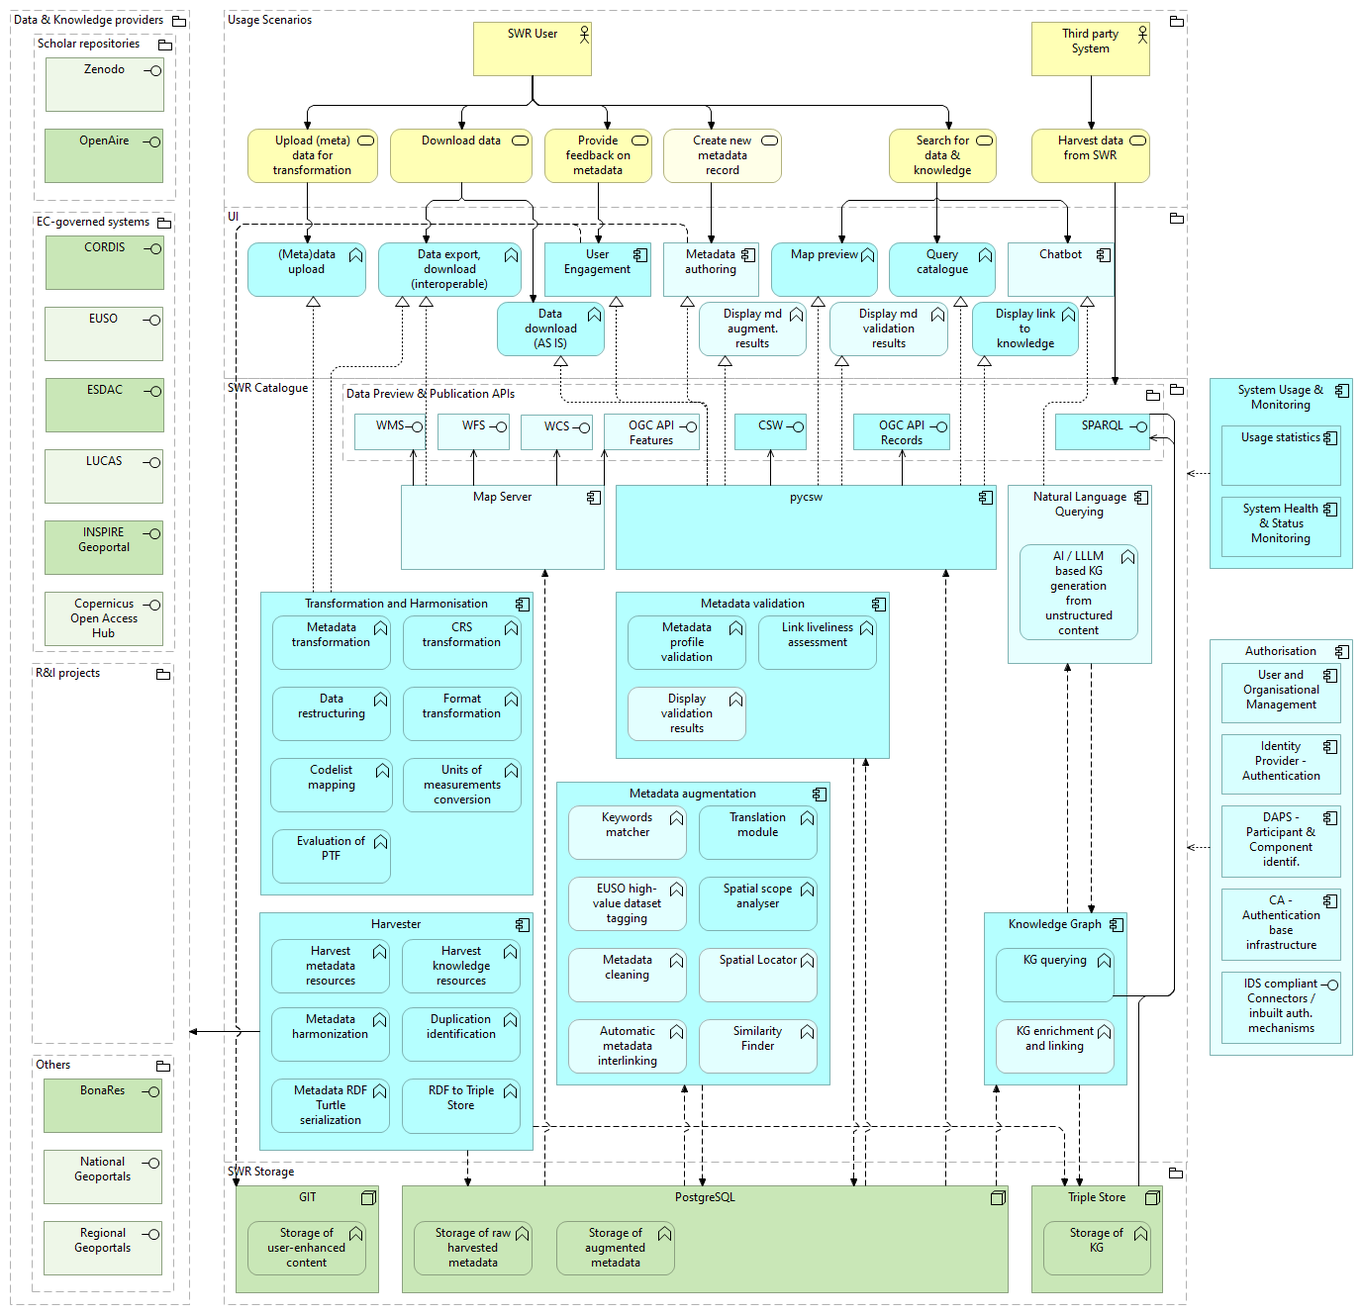
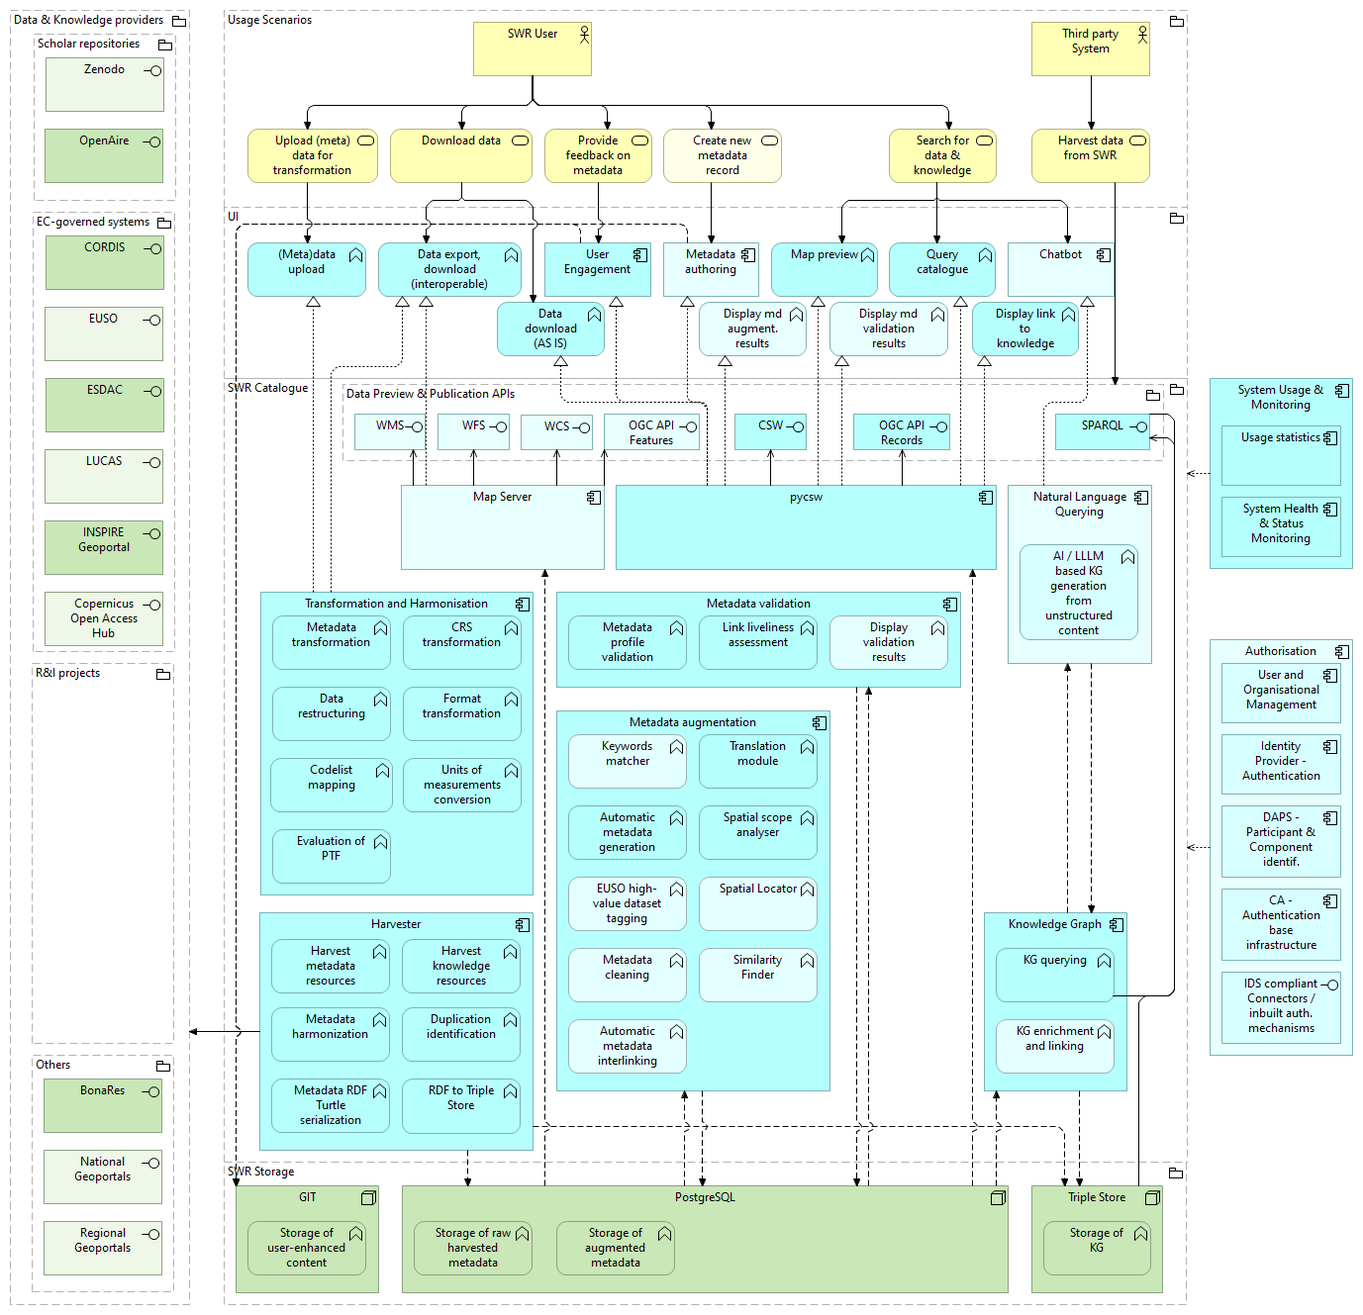
add metadata generation function

Changed region(s): [[0.406, 0.4319, 0.7182, 0.7404], [0.406, 0.7713, 0.6245, 0.833], [0.7182, 0.8021, 0.8119, 0.833]]

diff --git a/docs/id-85903050004a40d8964c6edc97e82d57/views/id-e3ae52bba4fb42dfa0b3900e7d37bdab.html b/docs/id-85903050004a40d8964c6edc97e82d57/views/id-e3ae52bba4fb42dfa0b3900e7d37bdab.html
@@ -92,25 +92,26 @@
 				  						<area shape="rect" coords="1006,1030,1126,1085" href="../elements/id-5922c005d25c4969baae7a6cd33ebb69.html"  target="element">
 				  						<area shape="rect" coords="1006,958,1126,1013" href="../elements/id-ad899cd3eb304d508fe490516af3d530.html"  target="element">
 
-				  				<area shape="rect" coords="994,922,1139,1097" href="../elements/id-78b338469cf443b3a3295477304c279f.html"  target="element">
-				  						<area shape="rect" coords="706,1030,826,1085" href="../elements/id-a8bf9506711a4be5be385f38c31e083a.html"  target="element">
+				  				<area shape="rect" coords="994,922,1139,1103" href="../elements/id-78b338469cf443b3a3295477304c279f.html"  target="element">
+				  						<area shape="rect" coords="574,814,694,869" href="../elements/id-35e137767e5941f382882b1ef6c4f18d.html"  target="element">
+				  						<area shape="rect" coords="706,958,826,1013" href="../elements/id-a8bf9506711a4be5be385f38c31e083a.html"  target="element">
 				  						<area shape="rect" coords="574,1030,694,1085" href="../elements/id-fbbcfe698cb04545b2df88b75572586a.html"  target="element">
-				  						<area shape="rect" coords="706,958,826,1013" href="../elements/id-0db32aa4b92b475f8ce412000a2e4d56.html"  target="element">
-				  						<area shape="rect" coords="706,886,826,941" href="../elements/id-fac2ae4aaeb94e66b4c3e9c2313f1279.html"  target="element">
-				  						<area shape="rect" coords="706,814,826,869" href="../elements/id-ccdf29d8bcda445db4534805b002dc8e.html"  target="element">
+				  						<area shape="rect" coords="706,886,826,941" href="../elements/id-0db32aa4b92b475f8ce412000a2e4d56.html"  target="element">
+				  						<area shape="rect" coords="706,814,826,869" href="../elements/id-fac2ae4aaeb94e66b4c3e9c2313f1279.html"  target="element">
+				  						<area shape="rect" coords="706,742,826,797" href="../elements/id-ccdf29d8bcda445db4534805b002dc8e.html"  target="element">
 				  						<area shape="rect" coords="574,958,694,1013" href="../elements/id-567cdfff454343d086c13d092157cdd2.html"  target="element">
-				  						<area shape="rect" coords="574,814,694,869" href="../elements/id-4b1707ccb0fb4232b0326a1b8f46bbbd.html"  target="element">
+				  						<area shape="rect" coords="574,742,694,797" href="../elements/id-4b1707ccb0fb4232b0326a1b8f46bbbd.html"  target="element">
 				  						<area shape="rect" coords="574,886,694,941" href="../elements/id-137a92520c3f4d8896df5be7b3a287cb.html"  target="element">
 
-				  				<area shape="rect" coords="562,790,839,1097" href="../elements/id-013ebacf35cf4b9a8cc2f8c9cd38dea7.html"  target="element">
+				  				<area shape="rect" coords="562,718,839,1103" href="../elements/id-013ebacf35cf4b9a8cc2f8c9cd38dea7.html"  target="element">
 				  						<area shape="rect" coords="1030,550,1150,647" href="../elements/id-1745e1bf66b04add9ec4a2f8dda34662.html"  target="element">
 
 				  				<area shape="rect" coords="1018,490,1164,671" href="../elements/id-b99b178a48604a2d9c9d1aa3bd9ca189.html"  target="element">
-				  						<area shape="rect" coords="766,622,886,677" href="../elements/id-a5804a5b650b4939a33ed2baa55c3af7.html"  target="element">
-				  						<area shape="rect" coords="634,694,754,749" href="../elements/id-57e13832cda945deb6cf6a0b841ba5fd.html"  target="element">
-				  						<area shape="rect" coords="634,622,754,677" href="../elements/id-3e75983d6ad84e2aa14838025d3de1c1.html"  target="element">
+				  						<area shape="rect" coords="706,622,826,677" href="../elements/id-a5804a5b650b4939a33ed2baa55c3af7.html"  target="element">
+				  						<area shape="rect" coords="838,622,958,677" href="../elements/id-57e13832cda945deb6cf6a0b841ba5fd.html"  target="element">
+				  						<area shape="rect" coords="574,622,694,677" href="../elements/id-3e75983d6ad84e2aa14838025d3de1c1.html"  target="element">
 
-				  				<area shape="rect" coords="622,598,899,767" href="../elements/id-a9cf757619cf4e5b88a6f18218fcbc58.html"  target="element">
+				  				<area shape="rect" coords="562,598,971,695" href="../elements/id-a9cf757619cf4e5b88a6f18218fcbc58.html"  target="element">
 				  				<area shape="rect" coords="405,490,611,576" href="../elements/id-4e10e6e899fc499596954856f014a5f6.html"  target="element">
 				  				<area shape="rect" coords="622,490,1007,576" href="../elements/id-443536983de845b9adeeef349b706966.html"  target="element">
 				  						<area shape="rect" coords="275,838,395,893" href="../elements/id-f9581805cb3d4b808918f55af9b5a876.html"  target="element">
@@ -525,6 +526,12 @@
 															<tr>
 															    <td> <a href="../elements/id-a8bf9506711a4be5be385f38c31e083a.html" target="element"> Similarity Finder </a> </td>
 															    <td> <a href="../elements/id-a8bf9506711a4be5be385f38c31e083a.html" target="element" class="i18n-elementtype-ApplicationFunction">
+															    </a> </td>
+															</tr>
+
+															<tr>
+															    <td> <a href="../elements/id-35e137767e5941f382882b1ef6c4f18d.html" target="element"> Automatic metadata generation </a> </td>
+															    <td> <a href="../elements/id-35e137767e5941f382882b1ef6c4f18d.html" target="element" class="i18n-elementtype-ApplicationFunction">
 															    </a> </td>
 															</tr>
 
@@ -1476,6 +1483,13 @@
 																				</a> </td>
 																				<td> <a href="../elements/id-013ebacf35cf4b9a8cc2f8c9cd38dea7.html" target="element"> Metadata augmentation </a> </td>
 																				<td> <a href="../elements/id-a8bf9506711a4be5be385f38c31e083a.html" target="element"> Similarity Finder </a> </td>
+																			</tr>
+																			<tr>
+																				<td> <a href="../elements/id-14976dd06ac74f29903cc23752dce91b.html" target="element">  </a> </td>
+																				<td> <a href="../elements/id-14976dd06ac74f29903cc23752dce91b.html" target="element" class="i18n-elementtype-AssignmentRelationship">
+																				</a> </td>
+																				<td> <a href="../elements/id-013ebacf35cf4b9a8cc2f8c9cd38dea7.html" target="element"> Metadata augmentation </a> </td>
+																				<td> <a href="../elements/id-35e137767e5941f382882b1ef6c4f18d.html" target="element"> Automatic metadata generation </a> </td>
 																			</tr>
 
 													

diff --git a/docs/id-85903050004a40d8964c6edc97e82d57/elements/model.html b/docs/id-85903050004a40d8964c6edc97e82d57/elements/model.html
@@ -294,6 +294,8 @@
 										dataElements.push({id:"id-8f03e3a8472e4f77bb14b315ad81382f", type:"ApplicationComponent", specialization:decodeURL(""), name:decodeURL("Metadata+authoring"), documentation:decodeURL("")});
 									dataFoldersContent.push({folderid:"id-2c9f601c1d62497682cb27a036b43315", contentid:"id-4834d45773674d65afe4bfb6167c89a4", contenttype:"ApplicationFunction"});
 										dataElements.push({id:"id-4834d45773674d65afe4bfb6167c89a4", type:"ApplicationFunction", specialization:decodeURL(""), name:decodeURL("Metadata+RDF+Turtle+serialization"), documentation:decodeURL("")});
+									dataFoldersContent.push({folderid:"id-2c9f601c1d62497682cb27a036b43315", contentid:"id-35e137767e5941f382882b1ef6c4f18d", contenttype:"ApplicationFunction"});
+										dataElements.push({id:"id-35e137767e5941f382882b1ef6c4f18d", type:"ApplicationFunction", specialization:decodeURL(""), name:decodeURL("Automatic+metadata+generation"), documentation:decodeURL("")});
 
 								dataFoldersContent.push({folderid:"id-85903050004a40d8964c6edc97e82d57", contentid:"id-85266dd2e90a4a2695a857c734ccac21", contenttype:"Folder"});
 								dataFolders.push({id:"id-85266dd2e90a4a2695a857c734ccac21", type:"Folder", name:decodeURL("Technology+%26+Physical"), documentation:decodeURL("")});
@@ -819,6 +821,8 @@
 										dataRelationships.push({id:"id-01c683b1caf34c77b44f6a9ef3063137", type:"FlowRelationship", specialization:decodeURL(""), name:decodeURL(""), documentation:decodeURL(""), sourceid:"id-8f03e3a8472e4f77bb14b315ad81382f", targetid:"id-0c180dee91a348a1b28b32ab70f1301d"});
 									dataFoldersContent.push({folderid:"id-8419bd0e4109431da90c86e364e87b59", contentid:"id-8a92d722bbb24e3a950040cbc209118b", contenttype:"AssignmentRelationship"});
 										dataRelationships.push({id:"id-8a92d722bbb24e3a950040cbc209118b", type:"AssignmentRelationship", specialization:decodeURL(""), name:decodeURL(""), documentation:decodeURL(""), sourceid:"id-6bce807e313049e1aabf4e46d09a7aba", targetid:"id-4834d45773674d65afe4bfb6167c89a4"});
+									dataFoldersContent.push({folderid:"id-8419bd0e4109431da90c86e364e87b59", contentid:"id-14976dd06ac74f29903cc23752dce91b", contenttype:"AssignmentRelationship"});
+										dataRelationships.push({id:"id-14976dd06ac74f29903cc23752dce91b", type:"AssignmentRelationship", specialization:decodeURL(""), name:decodeURL(""), documentation:decodeURL(""), sourceid:"id-013ebacf35cf4b9a8cc2f8c9cd38dea7", targetid:"id-35e137767e5941f382882b1ef6c4f18d"});
 
 								dataFoldersContent.push({folderid:"id-85903050004a40d8964c6edc97e82d57", contentid:"id-d5c07833d04e4a8596923e0230819484", contenttype:"Folder"});
 								dataFolders.push({id:"id-d5c07833d04e4a8596923e0230819484", type:"Folder", name:decodeURL("Views"), documentation:decodeURL("")});
@@ -880,6 +884,7 @@
 																dataViewsContent.push({viewid:"id-e3ae52bba4fb42dfa0b3900e7d37bdab", contentid:"id-0db32aa4b92b475f8ce412000a2e4d56", contenttype:"ApplicationFunction"});
 																dataViewsContent.push({viewid:"id-e3ae52bba4fb42dfa0b3900e7d37bdab", contentid:"id-fbbcfe698cb04545b2df88b75572586a", contenttype:"ApplicationFunction"});
 																dataViewsContent.push({viewid:"id-e3ae52bba4fb42dfa0b3900e7d37bdab", contentid:"id-a8bf9506711a4be5be385f38c31e083a", contenttype:"ApplicationFunction"});
+																dataViewsContent.push({viewid:"id-e3ae52bba4fb42dfa0b3900e7d37bdab", contentid:"id-35e137767e5941f382882b1ef6c4f18d", contenttype:"ApplicationFunction"});
 														
 														dataViewsContent.push({viewid:"id-e3ae52bba4fb42dfa0b3900e7d37bdab", contentid:"id-78b338469cf443b3a3295477304c279f", contenttype:"ApplicationComponent"});
 																dataViewsContent.push({viewid:"id-e3ae52bba4fb42dfa0b3900e7d37bdab", contentid:"id-ad899cd3eb304d508fe490516af3d530", contenttype:"ApplicationFunction"});
@@ -1053,6 +1058,7 @@
 																				dataViewsContent.push({viewid:"id-e3ae52bba4fb42dfa0b3900e7d37bdab", contentid:"id-872c2f07095b4f2797b021746c7b05ba", contenttype:"AssignmentRelationship"});
 																				dataViewsContent.push({viewid:"id-e3ae52bba4fb42dfa0b3900e7d37bdab", contentid:"id-ff96f57ab057409c8096cfaa1cd069ae", contenttype:"AssignmentRelationship"});
 																				dataViewsContent.push({viewid:"id-e3ae52bba4fb42dfa0b3900e7d37bdab", contentid:"id-f13302272f694bf2935b22dd8dcc1ac1", contenttype:"AssignmentRelationship"});
+																				dataViewsContent.push({viewid:"id-e3ae52bba4fb42dfa0b3900e7d37bdab", contentid:"id-14976dd06ac74f29903cc23752dce91b", contenttype:"AssignmentRelationship"});
 
 														
 																				dataViewsContent.push({viewid:"id-e3ae52bba4fb42dfa0b3900e7d37bdab", contentid:"id-7947d81c07f14faa89519bb19416a9bf", contenttype:"FlowRelationship"});

diff --git a/docs/id-85903050004a40d8964c6edc97e82d57/elements/id-35e137767e5941f382882b1ef6c4f18d.html b/docs/id-85903050004a40d8964c6edc97e82d57/elements/id-35e137767e5941f382882b1ef6c4f18d.html
@@ -1,0 +1,107 @@
+<!DOCTYPE html>
+<html class="frame" lang="en">
+<head>
+	<meta http-equiv="Content-Type" content="text/html;charset=utf-8">
+	<title>Automatic metadata generation</title>
+
+	<!-- JQUERY -->
+	<script type="text/javascript" src="../../lib/jquery/jquery.min.js"></script>
+	<!-- BOOTSTRAP -->
+	<link type="text/css" rel="stylesheet" href="../../lib/bootstrap/css/bootstrap.min.yeti.css">
+	<script type="text/javascript" src="../../lib/bootstrap/js/bootstrap-3.3.2.min.js"></script>
+	<!-- REPORT SPECIFIC -->
+	<link type="text/css" rel="stylesheet" href="../../css/model.css">
+	<link type="text/css" rel="stylesheet" href="../../css/i18n.css">
+	<script type="text/javascript" src="../../js/frame.js"></script>
+	<script type="text/javascript" src="../../js/imageMapResizer.min.js"></script>
+</head>
+
+<body>
+	<div class="panel panel-default root-panel">
+
+		<div class="panel-heading root-panel-heading">
+            <!-- Name -->
+               <b>Automatic metadata generation</b>
+
+            <!-- If a View with Viewpoint -->
+			   (<span class="i18n-elementtype-ApplicationFunction"></span>)
+			   <a class="glyphicon glyphicon-info-sign" id="hint-ApplicationFunction" target="hint"></a>
+		</div>
+
+		<div class="panel-body root-panel-body">
+		    <!-- If this is a digram model (has children and no bounds) show the image -->
+
+			<div role="tabpanel">
+				<!-- Nav tabs -->
+				<ul class="nav nav-tabs" role="tablist">
+                    <!-- Purpose / Documentation / Content -->
+					   <li role="presentation" class="active"><a href="#documentation" aria-controls="documentation" role="tab" data-toggle="tab" class="i18n-documentation"></a></li>
+
+                    <!-- Properties -->
+                    <li role="presentation"><a href="#properties" aria-controls="properties" role="tab" data-toggle="tab" class="i18n-properties"></a></li>
+
+                    <!-- Analysis -->
+                    	<li role="presentation"><a href="#analysis" aria-controls="analysis" role="tab" data-toggle="tab" class="i18n-analysis"></a></li>
+
+				</ul>
+
+				<!-- Tab panes -->
+				<div class="tab-content">
+					<div role="tabpanel" class="tab-pane active" id="documentation">
+						<div class="convertlinks documentation" style="white-space:pre-wrap"></div>
+					</div>
+					<div role="tabpanel" class="tab-pane" id="properties">
+						<table class="table table-striped table-hover table-condensed">
+							<thead>
+								<tr>
+									<th class="i18n-key"></th>
+									<th class="i18n-value"></th>
+								</tr>
+							</thead>
+							<tbody>
+							</tbody>
+						</table>
+					</div>
+					<div role="tabpanel" class="tab-pane" id="analysis">
+						<table class="table table-striped table-hover table-condensed" id="used-in-views">
+							<thead>
+								<tr><th colspan="2" class="i18n-used-in-views" /></tr>
+								<tr>
+									<th class="i18n-name"></th>
+									<th class="i18n-viewpoint"></th>
+								</tr>
+							</thead>
+							<tbody>
+								<tr id="used-in-views-id-e3ae52bba4fb42dfa0b3900e7d37bdab">
+																	<td><a href="../views/id-e3ae52bba4fb42dfa0b3900e7d37bdab.html" target="view" title="SWR 1st prototype architecture"> SWR 1st prototype architecture </a></td>
+																	<td><span class="i18n-viewpoint-" /></td>
+																</tr>
+							</tbody>
+						</table>
+						<table class="table table-striped table-hover table-condensed" id="model-relations">
+							<thead>
+								<tr><th colspan="4" class="i18n-model-relations" /></tr>
+								<tr>
+									<th class="i18n-name"></th>
+									<th class="i18n-type"></th>
+									<th class="i18n-source"></th>
+									<th class="i18n-target"></th>
+								</tr>
+							</thead>
+							<tbody>
+									<tr>
+											<td><a href="../elements/id-14976dd06ac74f29903cc23752dce91b.html" target="element" title=""></a></td>
+											<td><span class="i18n-elementtype-AssignmentRelationship" /></td>
+											<td><a href="../elements/id-013ebacf35cf4b9a8cc2f8c9cd38dea7.html" target="element"> Metadata augmentation</a></td>
+											<td><a href="../elements/id-35e137767e5941f382882b1ef6c4f18d.html" target="element"> Automatic metadata generation</a></td>
+										</tr>
+							</tbody>
+						</table>
+					</div>
+			  </div>
+			</div>
+		</div>
+	</div>
+	<script type="text/javascript">imageMapResize();</script>
+</body>
+</html>

diff --git a/docs/id-85903050004a40d8964c6edc97e82d57/elements/id-14976dd06ac74f29903cc23752dce91b.html b/docs/id-85903050004a40d8964c6edc97e82d57/elements/id-14976dd06ac74f29903cc23752dce91b.html
@@ -1,0 +1,112 @@
+<!DOCTYPE html>
+<html class="frame" lang="en">
+<head>
+	<meta http-equiv="Content-Type" content="text/html;charset=utf-8">
+	<title></title>
+
+	<!-- JQUERY -->
+	<script type="text/javascript" src="../../lib/jquery/jquery.min.js"></script>
+	<!-- BOOTSTRAP -->
+	<link type="text/css" rel="stylesheet" href="../../lib/bootstrap/css/bootstrap.min.yeti.css">
+	<script type="text/javascript" src="../../lib/bootstrap/js/bootstrap-3.3.2.min.js"></script>
+	<!-- REPORT SPECIFIC -->
+	<link type="text/css" rel="stylesheet" href="../../css/model.css">
+	<link type="text/css" rel="stylesheet" href="../../css/i18n.css">
+	<script type="text/javascript" src="../../js/frame.js"></script>
+	<script type="text/javascript" src="../../js/imageMapResizer.min.js"></script>
+</head>
+
+<body>
+	<div class="panel panel-default root-panel">
+
+		<div class="panel-heading root-panel-heading">
+            <!-- Name -->
+               <b class="i18n-elementtype-AssignmentRelationship"></b>
+            <!-- If a View with Viewpoint -->
+			   (<span class="i18n-elementtype-AssignmentRelationship"></span>)
+			   <a class="glyphicon glyphicon-info-sign" id="hint-AssignmentRelationship" target="hint"></a>
+		</div>
+
+		<div class="panel-body root-panel-body">
+		    <!-- If this is a digram model (has children and no bounds) show the image -->
+
+			<div role="tabpanel">
+				<!-- Nav tabs -->
+				<ul class="nav nav-tabs" role="tablist">
+                    <!-- Purpose / Documentation / Content -->
+					   <li role="presentation" class="active"><a href="#documentation" aria-controls="documentation" role="tab" data-toggle="tab" class="i18n-documentation"></a></li>
+
+                    <!-- Properties -->
+                    <li role="presentation"><a href="#properties" aria-controls="properties" role="tab" data-toggle="tab" class="i18n-properties"></a></li>
+
+                    <!-- Analysis -->
+                    	<li role="presentation"><a href="#analysis" aria-controls="analysis" role="tab" data-toggle="tab" class="i18n-analysis"></a></li>
+
+				</ul>
+
+				<!-- Tab panes -->
+				<div class="tab-content">
+					<div role="tabpanel" class="tab-pane active" id="documentation">
+							<br>
+							<b class="i18n-relation-source"></b>
+								<a href="../elements/id-013ebacf35cf4b9a8cc2f8c9cd38dea7.html" target="element">
+									Metadata augmentation
+								</a>
+							<br>
+							<b class="i18n-relation-target"></b>
+								<a href="../elements/id-35e137767e5941f382882b1ef6c4f18d.html" target="element">
+									Automatic metadata generation
+								</a>
+							<br>
+							<br>
+						<div class="convertlinks documentation" style="white-space:pre-wrap"></div>
+					</div>
+					<div role="tabpanel" class="tab-pane" id="properties">
+						<table class="table table-striped table-hover table-condensed">
+							<thead>
+								<tr>
+									<th class="i18n-key"></th>
+									<th class="i18n-value"></th>
+								</tr>
+							</thead>
+							<tbody>
+							</tbody>
+						</table>
+					</div>
+					<div role="tabpanel" class="tab-pane" id="analysis">
+						<table class="table table-striped table-hover table-condensed" id="used-in-views">
+							<thead>
+								<tr><th colspan="2" class="i18n-used-in-views" /></tr>
+								<tr>
+									<th class="i18n-name"></th>
+									<th class="i18n-viewpoint"></th>
+								</tr>
+							</thead>
+							<tbody>
+								<tr id="used-in-views-id-e3ae52bba4fb42dfa0b3900e7d37bdab">
+																	<td><a href="../views/id-e3ae52bba4fb42dfa0b3900e7d37bdab.html" target="view" title="SWR 1st prototype architecture"> SWR 1st prototype architecture </a></td>
+																	<td><span class="i18n-viewpoint-" /></td>
+																</tr>
+							</tbody>
+						</table>
+						<table class="table table-striped table-hover table-condensed" id="model-relations">
+							<thead>
+								<tr><th colspan="4" class="i18n-model-relations" /></tr>
+								<tr>
+									<th class="i18n-name"></th>
+									<th class="i18n-type"></th>
+									<th class="i18n-source"></th>
+									<th class="i18n-target"></th>
+								</tr>
+							</thead>
+							<tbody>
+							</tbody>
+						</table>
+					</div>
+			  </div>
+			</div>
+		</div>
+	</div>
+	<script type="text/javascript">imageMapResize();</script>
+</body>
+</html>

diff --git a/docs/index.html b/docs/index.html
@@ -142,6 +142,7 @@
 													<li class="tree-element "><a href="id-85903050004a40d8964c6edc97e82d57/elements/id-1745e1bf66b04add9ec4a2f8dda34662.html" target="element"> AI / LLLM based KG generation from unstructured content </a></li>
 													<li class="tree-element "><a href="id-85903050004a40d8964c6edc97e82d57/elements/id-8f03e3a8472e4f77bb14b315ad81382f.html" target="element"> Metadata authoring </a></li>
 													<li class="tree-element "><a href="id-85903050004a40d8964c6edc97e82d57/elements/id-4834d45773674d65afe4bfb6167c89a4.html" target="element"> Metadata RDF Turtle serialization </a></li>
+													<li class="tree-element "><a href="id-85903050004a40d8964c6edc97e82d57/elements/id-35e137767e5941f382882b1ef6c4f18d.html" target="element"> Automatic metadata generation </a></li>
 
 									</ul>
 								</li>
@@ -1079,6 +1080,10 @@
 													<li class="tree-element "><a href="id-85903050004a40d8964c6edc97e82d57/elements/id-8a92d722bbb24e3a950040cbc209118b.html" target="element">
 															<span class="i18n-elementtype-AssignmentRelationship"></span>
 														(Harvester - Metadata RDF Turtle serialization) 
+													</a></li>
+													<li class="tree-element "><a href="id-85903050004a40d8964c6edc97e82d57/elements/id-14976dd06ac74f29903cc23752dce91b.html" target="element">
+															<span class="i18n-elementtype-AssignmentRelationship"></span>
+														(Metadata augmentation - Automatic metadata generation) 
 													</a></li>
 
 									</ul>

diff --git a/docs/id-85903050004a40d8964c6edc97e82d57/elements/id-013ebacf35cf4b9a8cc2f8c9cd38dea7.html b/docs/id-85903050004a40d8964c6edc97e82d57/elements/id-013ebacf35cf4b9a8cc2f8c9cd38dea7.html
@@ -139,6 +139,11 @@
 											<td><span class="i18n-elementtype-AssignmentRelationship" /></td>
 											<td><a href="../elements/id-013ebacf35cf4b9a8cc2f8c9cd38dea7.html" target="element"> Metadata augmentation</a></td>
 											<td><a href="../elements/id-a8bf9506711a4be5be385f38c31e083a.html" target="element"> Similarity Finder</a></td>
+										</tr><tr>
+											<td><a href="../elements/id-14976dd06ac74f29903cc23752dce91b.html" target="element" title=""></a></td>
+											<td><span class="i18n-elementtype-AssignmentRelationship" /></td>
+											<td><a href="../elements/id-013ebacf35cf4b9a8cc2f8c9cd38dea7.html" target="element"> Metadata augmentation</a></td>
+											<td><a href="../elements/id-35e137767e5941f382882b1ef6c4f18d.html" target="element"> Automatic metadata generation</a></td>
 										</tr>
 									<tr>
 											<td><a href="../elements/id-9a5f94836d8c44f999a88a9d3162b445.html" target="element" title=""></a></td>
